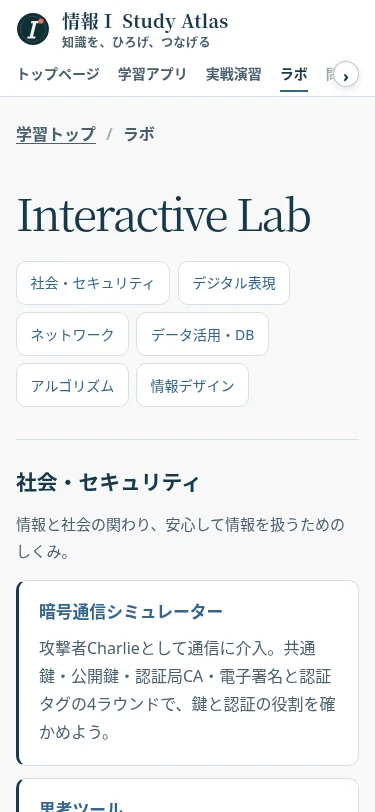
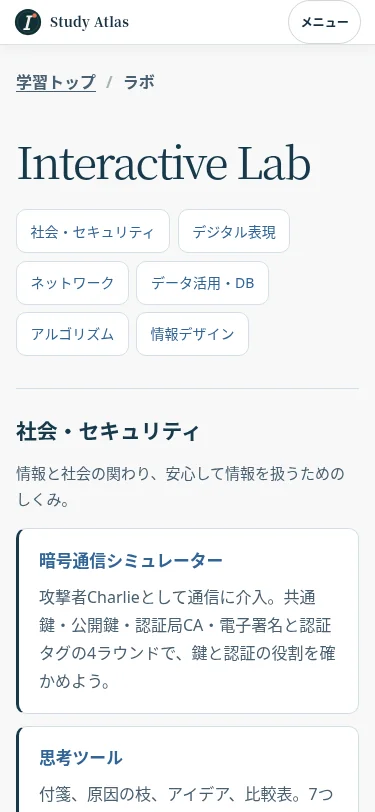
スマホのサイトヘッダーを学習アプリと共通化

diff --git a/assets/atlas-shell.css b/assets/atlas-shell.css
@@ -24,6 +24,61 @@
 .horizontal-scroll-cue__edge--right { right: 0; justify-content: flex-end; background: linear-gradient(270deg, var(--atlas-surface) 38%, rgb(255 255 255 / 0%)); }
 .horizontal-scroll-cue__edge--right::after { content: "›"; }
 
+.app-mini-nav {
+  position: sticky;
+  top: 0;
+  z-index: 60;
+  min-height: 44px;
+  display: flex;
+  align-items: center;
+  justify-content: space-between;
+  padding: 0 max(14px, calc((100% - 920px) / 2));
+  color: #173042;
+  background: var(--atlas-surface);
+  border-bottom: 1px solid rgba(23, 48, 66, .14);
+  box-shadow: 0 3px 14px rgba(24, 32, 42, .05);
+  backdrop-filter: blur(12px);
+}
+.app-mini-nav__brand { min-height: 44px; display: inline-flex; align-items: center; gap: 8px; color: inherit; text-decoration: none; }
+.app-mini-nav__brand > span {
+  width: 28px;
+  height: 28px;
+  background: url("./favicon.svg") center / contain no-repeat;
+  color: transparent;
+  font-size: 0;
+}
+.app-mini-nav__brand strong { font-family: Georgia, "Yu Mincho", serif; font-size: .84rem; letter-spacing: .02em; }
+.app-mini-nav__toggle { min-height: 44px; padding: 6px 11px; color: inherit; background: transparent; border: 1px solid rgba(23, 48, 66, .2); border-radius: 999px; cursor: pointer; font-size: .76rem; font-weight: 800; }
+.app-mini-nav__menu {
+  position: absolute;
+  top: calc(100% + 6px);
+  right: max(10px, calc((100% - 920px) / 2));
+  width: min(240px, calc(100vw - 20px));
+  max-height: calc(100dvh - 56px);
+  overflow-y: auto;
+  overscroll-behavior: contain;
+  display: grid;
+  gap: 2px;
+  padding: 8px;
+  background: #fff;
+  border: 1px solid var(--atlas-line);
+  border-radius: 10px;
+  box-shadow: 0 16px 42px rgba(24, 32, 42, .18);
+}
+.app-mini-nav__menu a, .app-mini-nav__menu button { min-height: 44px; display: flex; align-items: center; padding: 8px 11px; color: var(--atlas-ink); background: transparent; border: 0; border-radius: 7px; cursor: pointer; font-size: .86rem; font-weight: 800; text-align: left; text-decoration: none; }
+.app-mini-nav__menu a:hover, .app-mini-nav__menu button:hover { background: var(--atlas-soft); }
+.app-mini-nav__brand:focus-visible, .app-mini-nav__toggle:focus-visible, .app-mini-nav__menu a:focus-visible, .app-mini-nav__menu button:focus-visible { outline: 3px solid var(--atlas-accent); outline-offset: 2px; }
+
+.app-mini-nav__menu[hidden] { display: none; }
+.app-mini-nav__menu [aria-current="page"] { color: var(--atlas-accent); text-decoration: underline; text-underline-offset: .2em; }
+.site-header > .app-mini-nav { display: none; }
+
+@media (max-width: 767px) {
+  .site-header.has-compact-nav { transform: none; border-bottom: 0; }
+  .site-header.has-compact-nav > .header-inner { display: none; }
+  .site-header.has-compact-nav > .app-mini-nav { display: flex; position: relative; }
+}
+
 .site-footer { padding: 58px 0 24px; color: var(--atlas-surface); background: var(--atlas-footer); font-family: var(--atlas-font); line-height: 1.8; }
 .footer-grid { width: min(1180px, calc(100% - 40px)); margin: 0 auto; display: flex; justify-content: space-between; gap: 40px; }
 .footer-brand { margin: 0; color: var(--atlas-surface); }

diff --git a/assets/site-header.js b/assets/site-header.js
@@ -141,6 +141,13 @@
   );
   syncNavigation(document.querySelector(".app-mini-nav__menu"), navItems);
 
+  if (!document.querySelector("body > .app-mini-nav")) {
+    import(new URL("./atlas-compact-nav.mjs", sharedScript.src))
+      .then(({ mountCompactNav }) => mountCompactNav(header))
+      .catch(() => { /* The static site navigation remains available. */ });
+  }
+
+
   const initHorizontalScrollCue = (scroller, options = {}) => {
     if (!scroller || scroller.closest(".horizontal-scroll-cue")) return;
     const shell = document.createElement("div");

diff --git a/LectureNote/lecture-note.css b/LectureNote/lecture-note.css
@@ -1149,3 +1149,8 @@ ins.adsbygoogle[data-ad-status="unfilled"] { display: none !important; }
   .lecture-back-to-top { transition: none; }
   .lecture-learning-choice, .section-bookmark, .keyword-target { transition: none; }
 }
+
+@media (max-width: 767px) {
+  html:has(.site-header.has-compact-nav) { scroll-padding-top: 56px; }
+  .has-compact-nav ~ main .lecture-section { scroll-margin-top: 0; }
+}

diff --git a/assets/site.css b/assets/site.css
@@ -390,3 +390,7 @@ ins.adsbygoogle[data-ad-status="unfilled"] { display: none !important; }
 .archive-field-section > .section-heading { margin-bottom: 14px; }
 .archive-field-section > .archive-field-grid { margin-top: 0; }
 .archive-field-section + .archive-field-section { margin-top: 48px; }
+
+@media (max-width: 767px) {
+  html:has(.site-header.has-compact-nav) { scroll-padding-top: 56px; }
+}

diff --git a/scripts/build_mock_exam_sites_preview.py b/scripts/build_mock_exam_sites_preview.py
@@ -10,7 +10,7 @@ manifest=json.loads((target/'.openai/hosting.json').read_text())
 assert manifest['project_id']=='appgprj_6ae110a637e08191bc9ddecdd9bb6571'
 origin='https://study-atlas-mock-exams-preview.hal2718.chatgpt.site'
 dist=target/'dist'
-for name in ['site.css','atlas-tokens.css','atlas-shell.css','atlas-components.css','home.css','home-icons.png','site-header.js','home-learning.js','favicon.svg']:
+for name in ['site.css','atlas-tokens.css','atlas-shell.css','atlas-components.css','home.css','home-icons.png','site-header.js','atlas-compact-nav.mjs','home-learning.js','favicon.svg']:
  (dist/'assets').mkdir(exist_ok=True);shutil.copyfile(root/'assets'/name,dist/'assets'/name)
 # Keep dynamic shared navigation consistent with the rewritten static links.
 # Other portal pages live on Study Atlas, while the home and mock stay here.

diff --git a/docs/DESIGN.md b/docs/DESIGN.md
@@ -29,6 +29,8 @@
 3. 講義本文は LectureNote/lecture-note.css を入口とし、同じトークンと外枠だけを読み込む。教材の図表・穴埋め・拡大表示・印刷は講義側が管理する。
 4. 学習アプリ・問題検索は隣接リポジトリの app/styles.css と assets/question-search.css が担当する。共通CSSの取得が遅れた場合にも読めるよう、主要な変数には既定色がある。
 
+幅767px以下のヘッダーは、学習アプリと共通のロゴ・サイト名・メニューで表示する。学習記録はアプリのメニューに置く。メニューの開閉状態は aria-expanded に反映する。
+
 通常の遷移はリンク、状態変更はボタンを使う。主要なリンク型ボタンには既存の button と button-primary クラス、補助操作には button と button-ghost を組み合わせる。ナビゲーションでは aria-current、押下状態では aria-pressed、開閉には details と summary を使う。状態は文字・記号・形でも判別できるようにする。フォームにはラベルを付け、入力文字は原則1rem、押しやすい高さは44pxを目安とする。
 
 画面左右は --atlas-gutter、カードや入力欄は --atlas-radius（10px）、境界は基本1px。カード間はおおむね12〜20px、セクション間は内容に応じて32〜64pxを使う。本文の区切りは細い罫線と見出しを基本とし、影を使う場合は --atlas-shadow を選ぶ。
